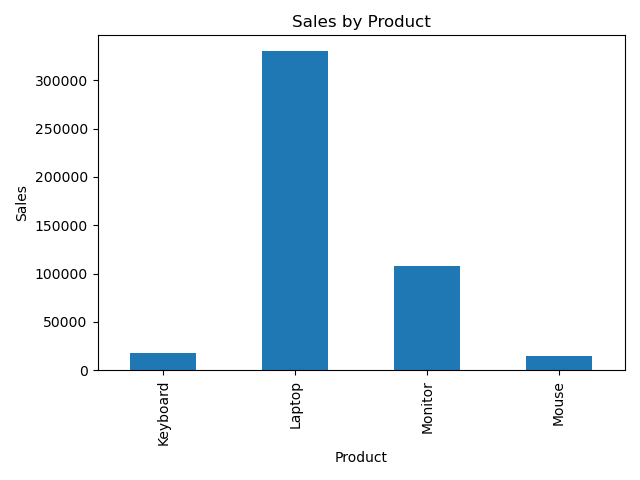
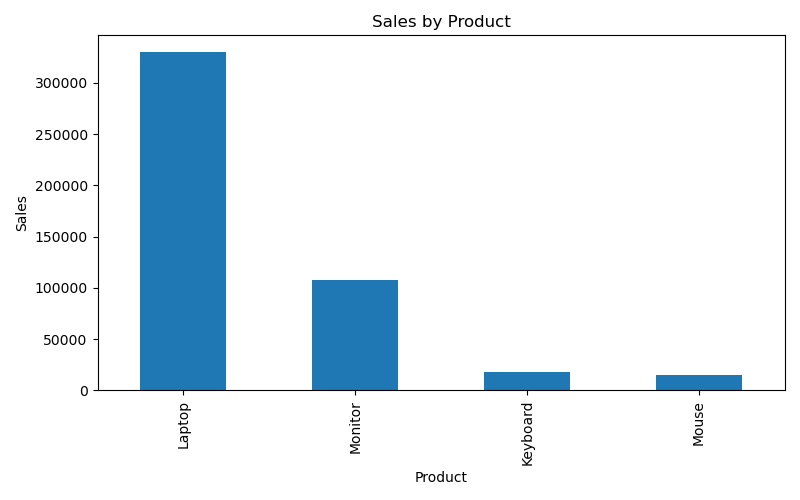
improve sales analysis and visualization

Changed region(s): [[0.0, 0.0312, 1.0, 0.9375], [0.5, 0.9375, 0.625, 0.9688]]

diff --git a/analysis.py b/analysis.py
@@ -1,24 +1,23 @@
 import pandas as pd
-
 data = pd.read_csv("sales_data.csv")
-
 data["Sales"] = data["Quantity"] * data["Price"]
-
 total_sales = data["Sales"].sum()
-
 print("Total Sales:", total_sales)
 product_sales = data.groupby("Product")["Sales"].sum()
-
 print("\nSales by Product:")
 print(product_sales)
+best_product = product_sales.idxmax()
+best_sales = product_sales.max()
+print("\nBest-selling Product:", best_product)
+print("Best Product Sales:", best_sales)
+average_sales = data["Sales"].mean()
+print("Average Sales:", average_sales)
+print("Number of Records:", len(data))
 import matplotlib.pyplot as plt
-
-product_sales.plot(kind="bar")
-
+product_sales.sort_values(ascending=False).plot(kind="bar", figsize=(8, 5))
 plt.title("Sales by Product")
 plt.xlabel("Product")
 plt.ylabel("Sales")
-
 plt.tight_layout()
 plt.savefig("sales_by_product.png")
 plt.show()
